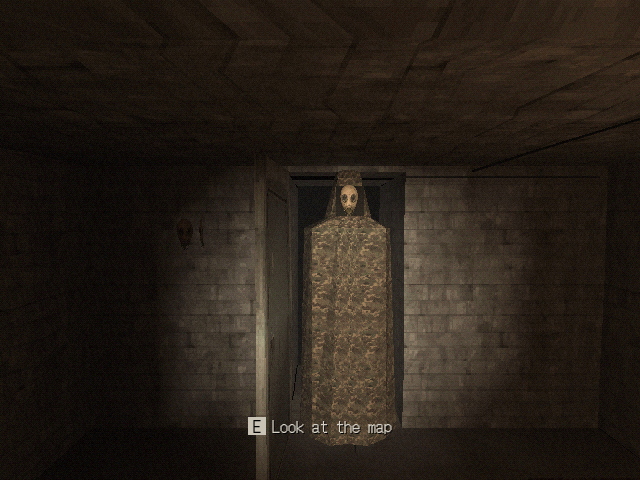
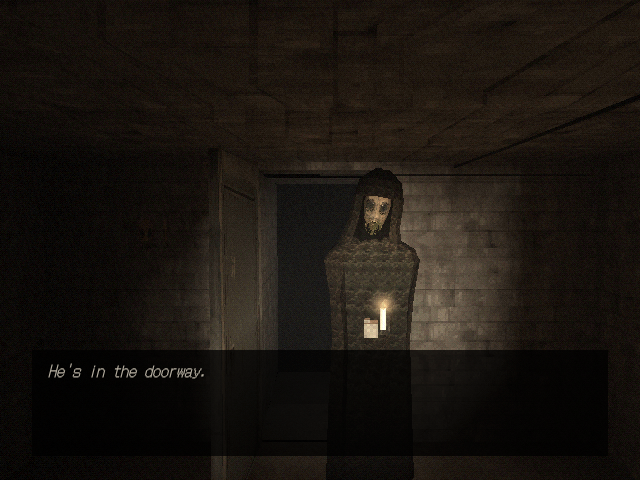
Light Marc in the doorway with a candle in his hand
Jumpscare 3: he stands a step inside the doorway at one side of the frame, closer and off-center, holding a candle low. Its light (kit.npc().holdCandle()) catches the mask from below and the hand; the cape fades to black toward the hem, and the table candle gutters when he comes in, so the rest of him is shadow. The breath comes from where he stands.

diff --git a/src/levels/bunker_hidden/index.ts b/src/levels/bunker_hidden/index.ts
@@ -1,6 +1,7 @@
 import { CylinderGeometry, type Group } from 'three';
 import type { NodeId } from '../../content';
 import type { Atmosphere } from '../../engine/render/atmosphere';
+import type { LightBuilder } from '../../game/kit/builders';
 import type { LevelKit } from '../../game/kit/levelKit';
 import type { NpcBuilder } from '../../game/kit/npc';
 import type { Beat } from '../../game/scares/beats';
@@ -51,10 +52,10 @@ const atmospheres: Record<TimeOfDay, Atmosphere> = { day: atmosphere, night: atm
 export const markers = {
   bun3_doorway: {
     beat: 'bun3_doorway',
-    x: 0.2,
-    z: 0,
-    yaw: -90,
-    note: 'Jumpscare 3, `room_empty` only: Marc in the doorway, full height, masked, the cape, lit by the candle. He steps in while the player looks away; when they turn back, one loud breath, and marc_doorway 1 s later.',
+    x: 0.6,
+    z: -0.3,
+    yaw: yawToward(3 - 0.6, 0.3),
+    note: 'Jumpscare 3, `room_empty` only: Marc just inside the doorway, at one side of the frame, so he stands off-center and closer than the doorway itself. He holds a candle low; it lights the mask from below and his hand, and the rest of him is in shadow. The table candle gutters when he comes in. He steps in while the player looks away; when they turn back, one loud breath, and marc_doorway 1 s later.',
   },
   marc_dark_corner: {
     beat: 'bun3_knock',
@@ -108,10 +109,12 @@ export const bunkerHiddenScene = defineScene({
       await then?.();
     };
     furnish(kit, ctx, arrival, look);
-    candle(kit, ctx, arrival);
+    const tableCandle = candle(kit, ctx, arrival);
     const scares = kit.use(scareDirector(unspent(ctx.state, roomBeats(tunnel(kit, ctx)))));
     leaveByTheDoor(kit, ctx);
-    stageMarc(kit, ctx, arrival, seen, scares);
+    stageMarc(kit, ctx, arrival, seen, scares, () => {
+      if (tableCandle?.light) tableCandle.light.intensity *= 0.35;
+    });
   },
 
   update(dt, ctx) {
@@ -213,14 +216,17 @@ function valleyMap(kit: LevelKit) {
   });
 }
 
-/** One candle on the table, and its flutter, the only sound. It is out in the dark branch: the wrong knock put it out. */
-function candle(kit: LevelKit, ctx: SceneContext, arrival: Arrival): void {
+/**
+ * One candle on the table, and its flutter, the only sound. It is out in the dark branch: the
+ * wrong knock put it out. Returns its light, or null when it is out.
+ */
+function candle(kit: LevelKit, ctx: SceneContext, arrival: Arrival): LightBuilder | null {
   kit.cylinder({ r: 0.022, h: 0.09, sides: 6 }).color(0xd8d0b8).at(CANDLE.x, CANDLE.y, CANDLE.z);
-  if (arrival === 'dark') return;
+  if (arrival === 'dark') return null;
   kit.use((k) => k.world.sounds.track(candleFlutter(ctx.audio, { x: CANDLE.x, y: CANDLE.y + 0.1, z: CANDLE.z })));
   kit.box({ w: 0.012, h: 0.03, d: 0.012 }).unlit().color(0xffd070).at(CANDLE.x, CANDLE.y + 0.09, CANDLE.z);
   kit.glow(0.35, 0xffb860).at(CANDLE.x, CANDLE.y + 0.11, CANDLE.z);
-  kit.light({ color: 0xffa858, intensity: 1.7, range: 6.5 }).flicker(0.35).at(CANDLE.x, CANDLE.y + 0.25, CANDLE.z);
+  return kit.light({ color: 0xffa858, intensity: 1.7, range: 6.5 }).flicker(0.35).at(CANDLE.x, CANDLE.y + 0.25, CANDLE.z);
 }
 
 /**
@@ -324,7 +330,7 @@ const roomBeats = (shutTheDoor: () => void): Beat[] => [
   {
     id: 'bun3_doorway',
     when: { after: Number.POSITIVE_INFINITY },
-    do: [{ stinger: 'sfx_breath_mask', at: { x: DOOR.x, z: DOOR.z } }],
+    do: [{ stinger: 'sfx_breath_mask', at: { x: markers.bun3_doorway.x, z: markers.bun3_doorway.z } }],
   },
   {
     id: 'dawn_tunnel_door',
@@ -336,11 +342,12 @@ const roomBeats = (shutTheDoor: () => void): Beat[] => [
 
 /**
  * Marc, masked, wherever the night has put him. Empty room: he steps into the doorway while the
- * reporter's back is turned and is there when they turn (jumpscare 3). Dark room: he stands in the
- * far corner from the start until the torch finds him. After the monologue, and on any later
- * visit, he sits on the bed with his back to the door.
+ * reporter's back is turned, a candle in his hand, and is there when they turn (jumpscare 3); the
+ * table candle gutters in the air he lets in (`gutter`). Dark room: he stands in the far corner
+ * from the start until the torch finds him. After the monologue, and on any later visit, he sits
+ * on the bed with his back to the door.
  */
-function stageMarc(kit: LevelKit, ctx: SceneContext, arrival: Arrival, seen: Set<string>, scares: ScareDirector): void {
+function stageMarc(kit: LevelKit, ctx: SceneContext, arrival: Arrival, seen: Set<string>, scares: ScareDirector, gutter: () => void): void {
   const marc = kit.npc('marc');
   if (arrival === 'after') return sitOnTheBed(marc, { instantly: true });
   const talk = (id: NodeId) => playNode(ctx, id).then(() => walkToTheBed(marc));
@@ -357,10 +364,10 @@ function stageMarc(kit: LevelKit, ctx: SceneContext, arrival: Arrival, seen: Set
     return;
   }
 
-  // After three objects or 90 seconds he comes back. He steps in only while the door is behind
-  // the reporter, and the hit comes when they turn and see him.
+  // After three objects or 90 seconds he comes back. He steps in only while he is behind the
+  // reporter, and the hit comes when they turn and see him.
   const { x, z, yaw } = markers.bun3_doorway;
-  marc.at(x, 0, z).faceYaw(yaw);
+  marc.at(x, 0, z).faceYaw(yaw).holdCandle();
   marc.object.visible = false;
   let elapsed = 0;
   let stage: 'waiting' | 'there' | 'met' = 'waiting';
@@ -369,12 +376,13 @@ function stageMarc(kit: LevelKit, ctx: SceneContext, arrival: Arrival, seen: Set
     elapsed += dt;
     if (seen.size < 3 && elapsed < 90) return;
     if (stage === 'waiting') {
-      if (facing(c, DOOR.x, DOOR.z, 70)) return;
+      if (facing(c, x, z, 70)) return;
       stage = 'there';
       marc.object.visible = true;
+      gutter();
       return;
     }
-    if (!facing(c, DOOR.x, DOOR.z, 30) || distance(c, DOOR.x, DOOR.z) < 2) return;
+    if (!facing(c, x, z, 30) || distance(c, x, z) < 1.6) return;
     stage = 'met';
     scares.fire('bun3_doorway');
     setTimeout(() => void talk('marc_doorway'), 1000);

diff --git a/src/game/kit/npc.ts b/src/game/kit/npc.ts
@@ -1,9 +1,10 @@
-import { MathUtils } from 'three';
+import { CylinderGeometry, MathUtils, Mesh, PlaneGeometry, Vector3 } from 'three';
 import { castModel, type CharacterId } from '../../engine/characters/cast';
 import { Character, type WalkOptions } from '../../engine/characters/character';
 import type { Waypoint } from '../../engine/characters/motion';
 import { collarBell, cowbell } from '../../engine/characters/voices';
 import { playerTuning } from '../../engine/player';
+import { createPs1Material } from '../../engine/render/ps1Material';
 import { hashString } from '../../engine/random';
 import { dialogues, type EntryId, type NodeId } from '../../content';
 import type { DialogueScript } from '../dialogue';
@@ -102,6 +103,28 @@ export class NpcBuilder extends Placed {
       if (time >= 1) this.ctx.world.updates.delete(ease);
     };
     if (Math.hypot(span.x, span.z) > 0.02) this.ctx.world.updates.add(ease);
+  }
+
+  /**
+   * A lit candle in the character's hand, Le Loyon's only light in the bunker. Its light moves
+   * with the hand, lights the mask from below, and is out while the character is hidden.
+   */
+  holdCandle(): this {
+    const hand = this.character.model.hand;
+    if (!hand) return this;
+    const wax = new Mesh(new CylinderGeometry(0.02, 0.02, 0.11, 6).translate(0, 0.02, 0), createPs1Material({ color: 0xc8c0a8 }));
+    const flame = new Mesh(new PlaneGeometry(0.014, 0.03).translate(0, 0.09, 0), createPs1Material({ color: 0xffd070, unlit: true, billboard: true }));
+    const glow = new Mesh(new PlaneGeometry(0.22, 0.22).translate(0, 0.09, 0), createPs1Material({ glow: true, billboard: true, map: this.ctx.world.textures.get('glow'), color: 0xffb860 }));
+    hand.add(wax, flame, glow);
+    this.ctx.later('register', () => {
+      const light = this.ctx.world.lights.addPoint(new Vector3(), { color: 0xffa858, intensity: 1.3, range: 3.2, flicker: 0.3 });
+      this.ctx.world.updates.add(() => {
+        // Just above the flame, so the light falls up onto the mask.
+        hand.getWorldPosition(light.position).y += 0.12;
+        light.intensity = this.object.visible ? 1.3 : 0;
+      });
+    });
+    return this;
   }
 
   /** Already seated when the scene opens, on a seat `height` meters up. See `Character.sit`. */
